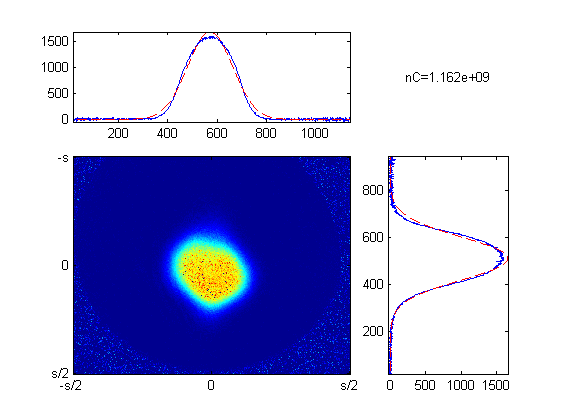
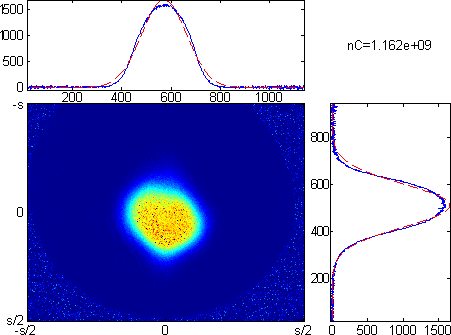
[thesis/chap2] mf-pump

diff --git a/thesis/chap2.tex b/thesis/chap2.tex
@@ -203,13 +203,14 @@ The gray molasses step is used to cool the CMOT cloud further before transfering
 
 \section{Dark State Pumping}\label{exp:pump}
 
-At the end of Laser cooling, the atoms are distributed in different ground states hperfine levels (mostly $F=1$ after gray molasses). In order to transfer into the magnetic trap, the atoms need to be in a trappable state
-, need to go to 2, 2 / 2, 1 which are the only trappable states at both low field and high field.\\
-Choose 2, 2 because we can use dark state pumping which ...
-
-Dark State pumping with D1 light
-
-Re-scattering, detuning
+At the end of Laser cooling, the atoms are distributed in different hperfine levels not all of which are trappable. In order to transfer to and evaporate in the magnetic trap, all the atoms have to be in a single trappable state. Making use of the dark state in the $D1$ line with $\sigma^+$ light, we use the dark state pumping to transfer the atoms into the $|2, 2\rangle$ state without significant heating. In order to minimize rescattering of the pumping light, the pumping light is blue detuned by $\delta_{F1}=20\text{MHz}$ and $\delta_{F2}=34\text{MHz}$. Figure \ref{exp:mf-pump} shows the atoms after different pumping time imaged with $D1F2$ $\sigma^+$ light. The initial increase in atom number shows atoms being pumped into $F2$ and the slower decay is when they are going into the $|2, 2\rangle$ state invisible to the imaging light.
+\begin{figure}
+  \begin{center}
+    \includegraphics[width=8cm]{mf-pump.png}
+  \end{center}
+  \caption{}
+  \label{exp:mf-pump}
+\end{figure}
 
 \section{Static Magnetic Trap}\label{exp:mt}
 
